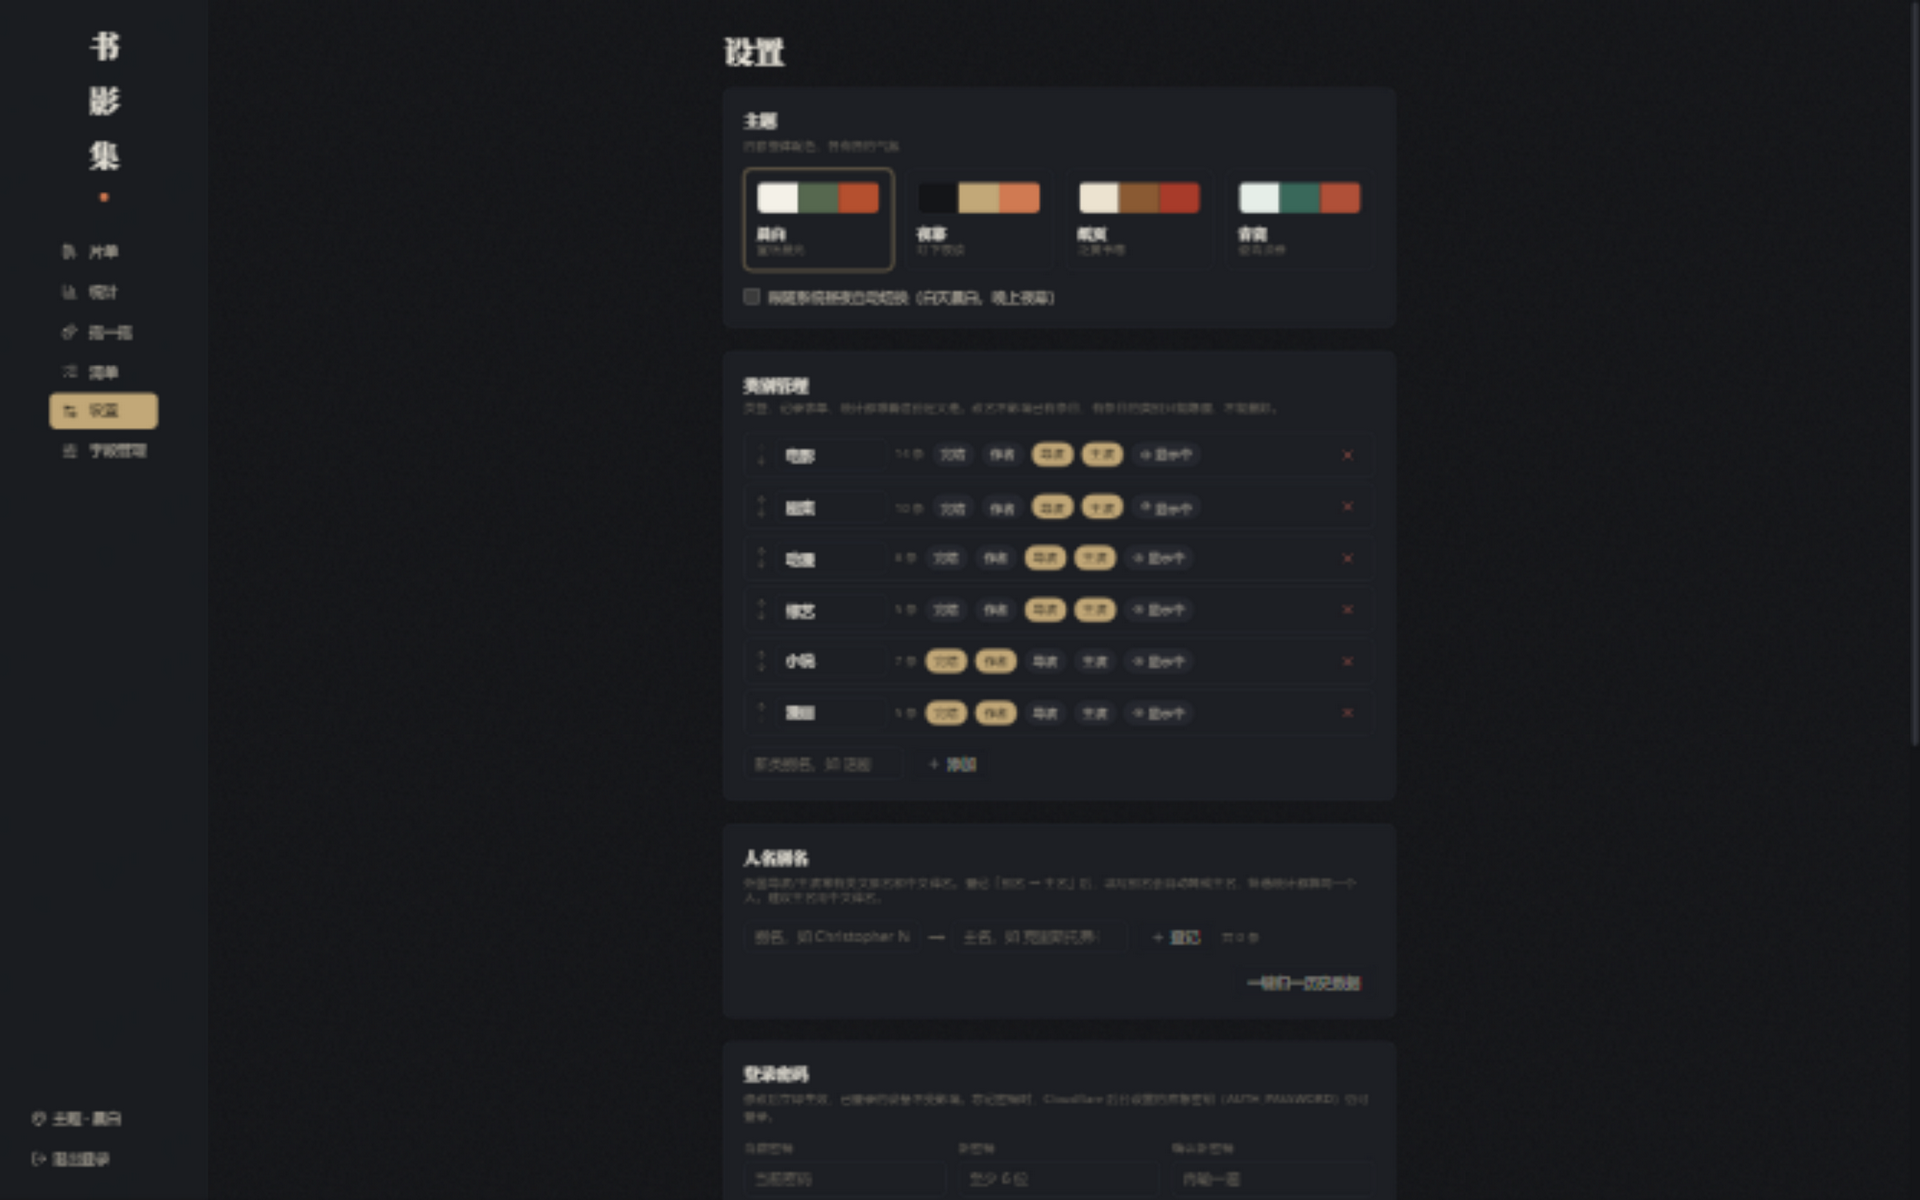
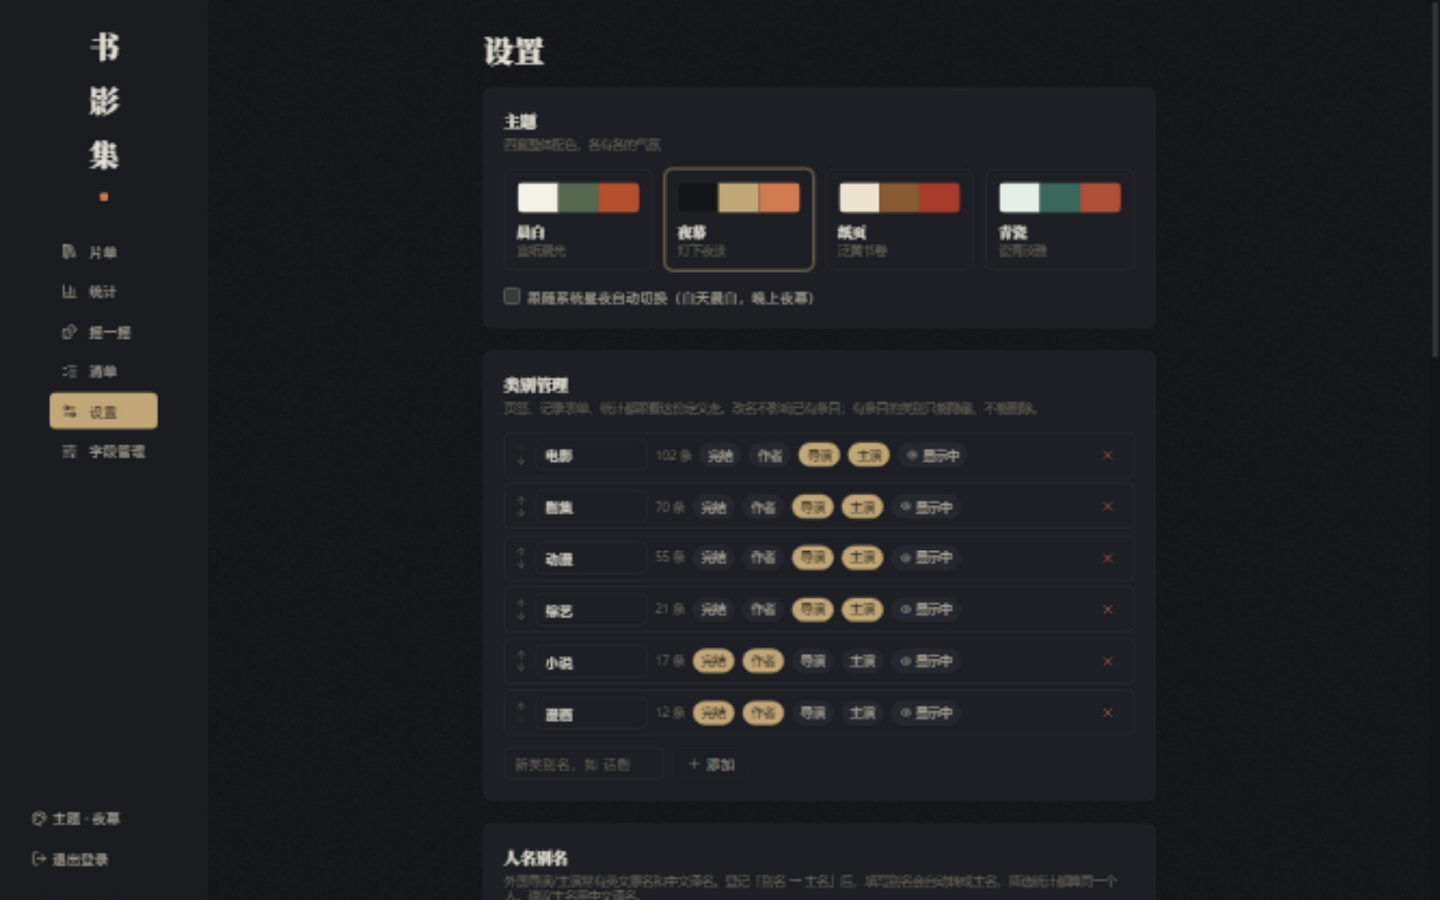
docs: README 预览图按演示数据重拍（真实封面 / 夜幕主题 / 1440px 高清）
- 片单、统计、手机端三张取自在线演示站（277 条真实热门片名 + 真实封面），拍摄时隐藏演示横幅
- 设置页取自本地演示数据环境（临时关闭 DEMO_MODE 拍完整管理界面，拍后已恢复），避免暴露真实库条数
- 图注主题改为夜幕；截图出处说明更新为演示站（附演示链接）

diff --git a/README.md b/README.md
@@ -33,7 +33,7 @@
 
 ## 📷 界面预览
 
-| 片单 · 类别页签（晨白） | 统计面板（晨白） |
+| 片单 · 类别页签（夜幕） | 统计面板（夜幕） |
 | :---: | :---: |
 | ![片单](./docs/screenshots/list.png) | ![统计](./docs/screenshots/stats.png) |
 
@@ -41,7 +41,7 @@
 | :---: | :---: |
 | ![设置](./docs/screenshots/settings-night.png) | ![手机端](./docs/screenshots/mobile.png) |
 
-*界面截图使用本地演示数据（`python scripts/seed_demo.py` 生成），非真实记录。*
+*界面截图来自演示数据（在线演示站 [logdemo.civinar.eu.cc](https://logdemo.civinar.eu.cc)，密码 demo），非真实记录。*
 
 ## ✨ 功能特性
 
